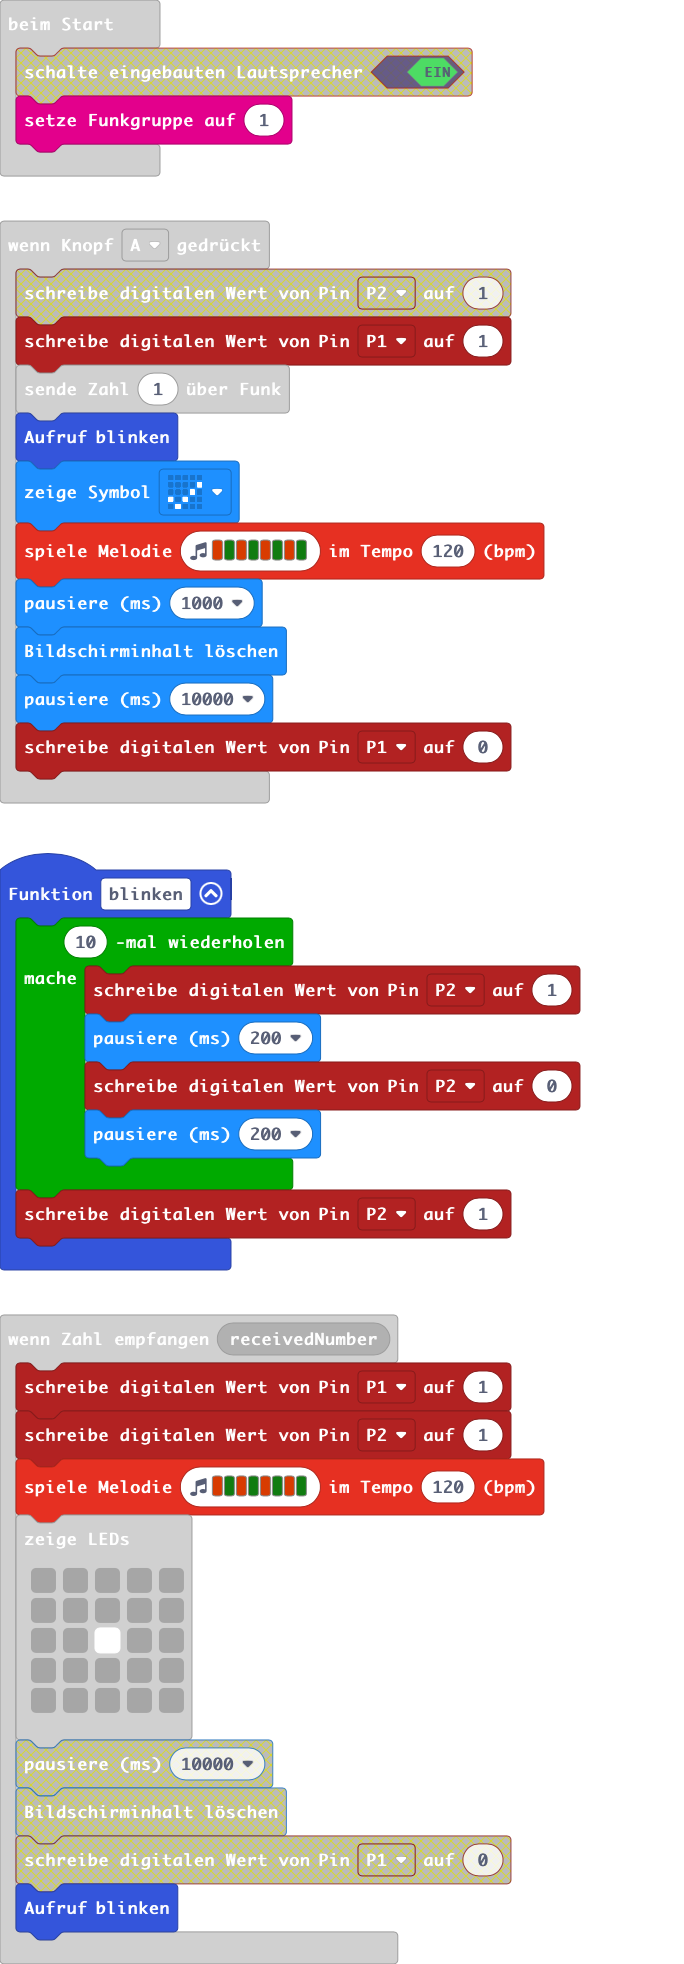
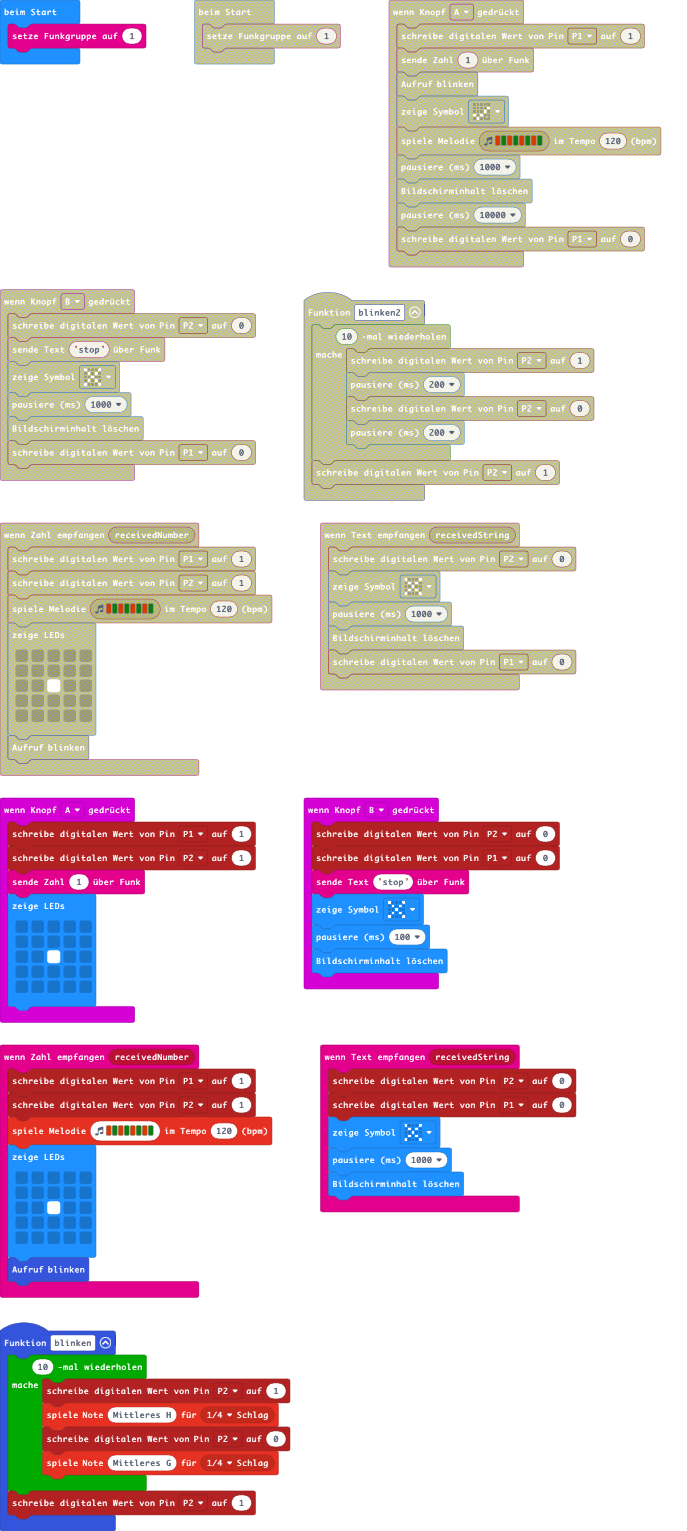
Aktualisiere pxt.json, main.blocks, main.ts, main.py

diff --git a/main.ts b/main.ts
@@ -13,36 +13,37 @@ radio.onReceivedNumber(function (receivedNumber) {
 })
 input.onButtonPressed(Button.A, function () {
     pins.digitalWritePin(DigitalPin.P1, 1)
+    pins.digitalWritePin(DigitalPin.P2, 1)
     radio.sendNumber(1)
-    blinken()
-    basic.showIcon(IconNames.Yes)
-    music.playMelody("B G B G B G B G ", 120)
-    basic.pause(1000)
-    basic.clearScreen()
-    basic.pause(10000)
-    pins.digitalWritePin(DigitalPin.P1, 0)
+    basic.showLeds(`
+        . . . . .
+        . . . . .
+        . . # . .
+        . . . . .
+        . . . . .
+        `)
 })
 radio.onReceivedString(function (receivedString) {
     pins.digitalWritePin(DigitalPin.P2, 0)
+    pins.digitalWritePin(DigitalPin.P1, 0)
     basic.showIcon(IconNames.No)
     basic.pause(1000)
     basic.clearScreen()
-    pins.digitalWritePin(DigitalPin.P1, 0)
 })
 input.onButtonPressed(Button.B, function () {
     pins.digitalWritePin(DigitalPin.P2, 0)
+    pins.digitalWritePin(DigitalPin.P1, 0)
     radio.sendString("stop")
     basic.showIcon(IconNames.No)
-    basic.pause(1000)
+    basic.pause(100)
     basic.clearScreen()
-    pins.digitalWritePin(DigitalPin.P1, 0)
 })
 function blinken () {
     for (let index = 0; index < 10; index++) {
         pins.digitalWritePin(DigitalPin.P2, 1)
-        basic.pause(200)
+        music.playTone(494, music.beat(BeatFraction.Quarter))
         pins.digitalWritePin(DigitalPin.P2, 0)
-        basic.pause(200)
+        music.playTone(392, music.beat(BeatFraction.Quarter))
     }
     pins.digitalWritePin(DigitalPin.P2, 1)
 }

diff --git a/main.py b/main.py
@@ -1,0 +1,51 @@
+def on_received_number(receivedNumber):
+    pins.digital_write_pin(DigitalPin.P1, 1)
+    pins.digital_write_pin(DigitalPin.P2, 1)
+    music.play_melody("B G B G B G B G ", 120)
+    basic.show_leds("""
+        . . . . .
+        . . . . .
+        . . # . .
+        . . . . .
+        . . . . .
+        """)
+    blinken()
+radio.on_received_number(on_received_number)
+
+def on_button_pressed_a():
+    pins.digital_write_pin(DigitalPin.P1, 1)
+    radio.send_number(1)
+    blinken()
+    basic.show_icon(IconNames.YES)
+    music.play_melody("B G B G B G B G ", 120)
+    basic.pause(1000)
+    basic.clear_screen()
+    basic.pause(10000)
+    pins.digital_write_pin(DigitalPin.P1, 0)
+input.on_button_pressed(Button.A, on_button_pressed_a)
+
+def on_received_string(receivedString):
+    pins.digital_write_pin(DigitalPin.P2, 0)
+    basic.show_icon(IconNames.NO)
+    basic.pause(1000)
+    basic.clear_screen()
+    pins.digital_write_pin(DigitalPin.P1, 0)
+radio.on_received_string(on_received_string)
+
+def on_button_pressed_b():
+    pins.digital_write_pin(DigitalPin.P2, 0)
+    radio.send_string("stop")
+    basic.show_icon(IconNames.NO)
+    basic.pause(1000)
+    basic.clear_screen()
+    pins.digital_write_pin(DigitalPin.P1, 0)
+input.on_button_pressed(Button.B, on_button_pressed_b)
+
+def blinken():
+    for index in range(10):
+        pins.digital_write_pin(DigitalPin.P2, 1)
+        basic.pause(200)
+        pins.digital_write_pin(DigitalPin.P2, 0)
+        basic.pause(200)
+    pins.digital_write_pin(DigitalPin.P2, 1)
+radio.set_group(1)
